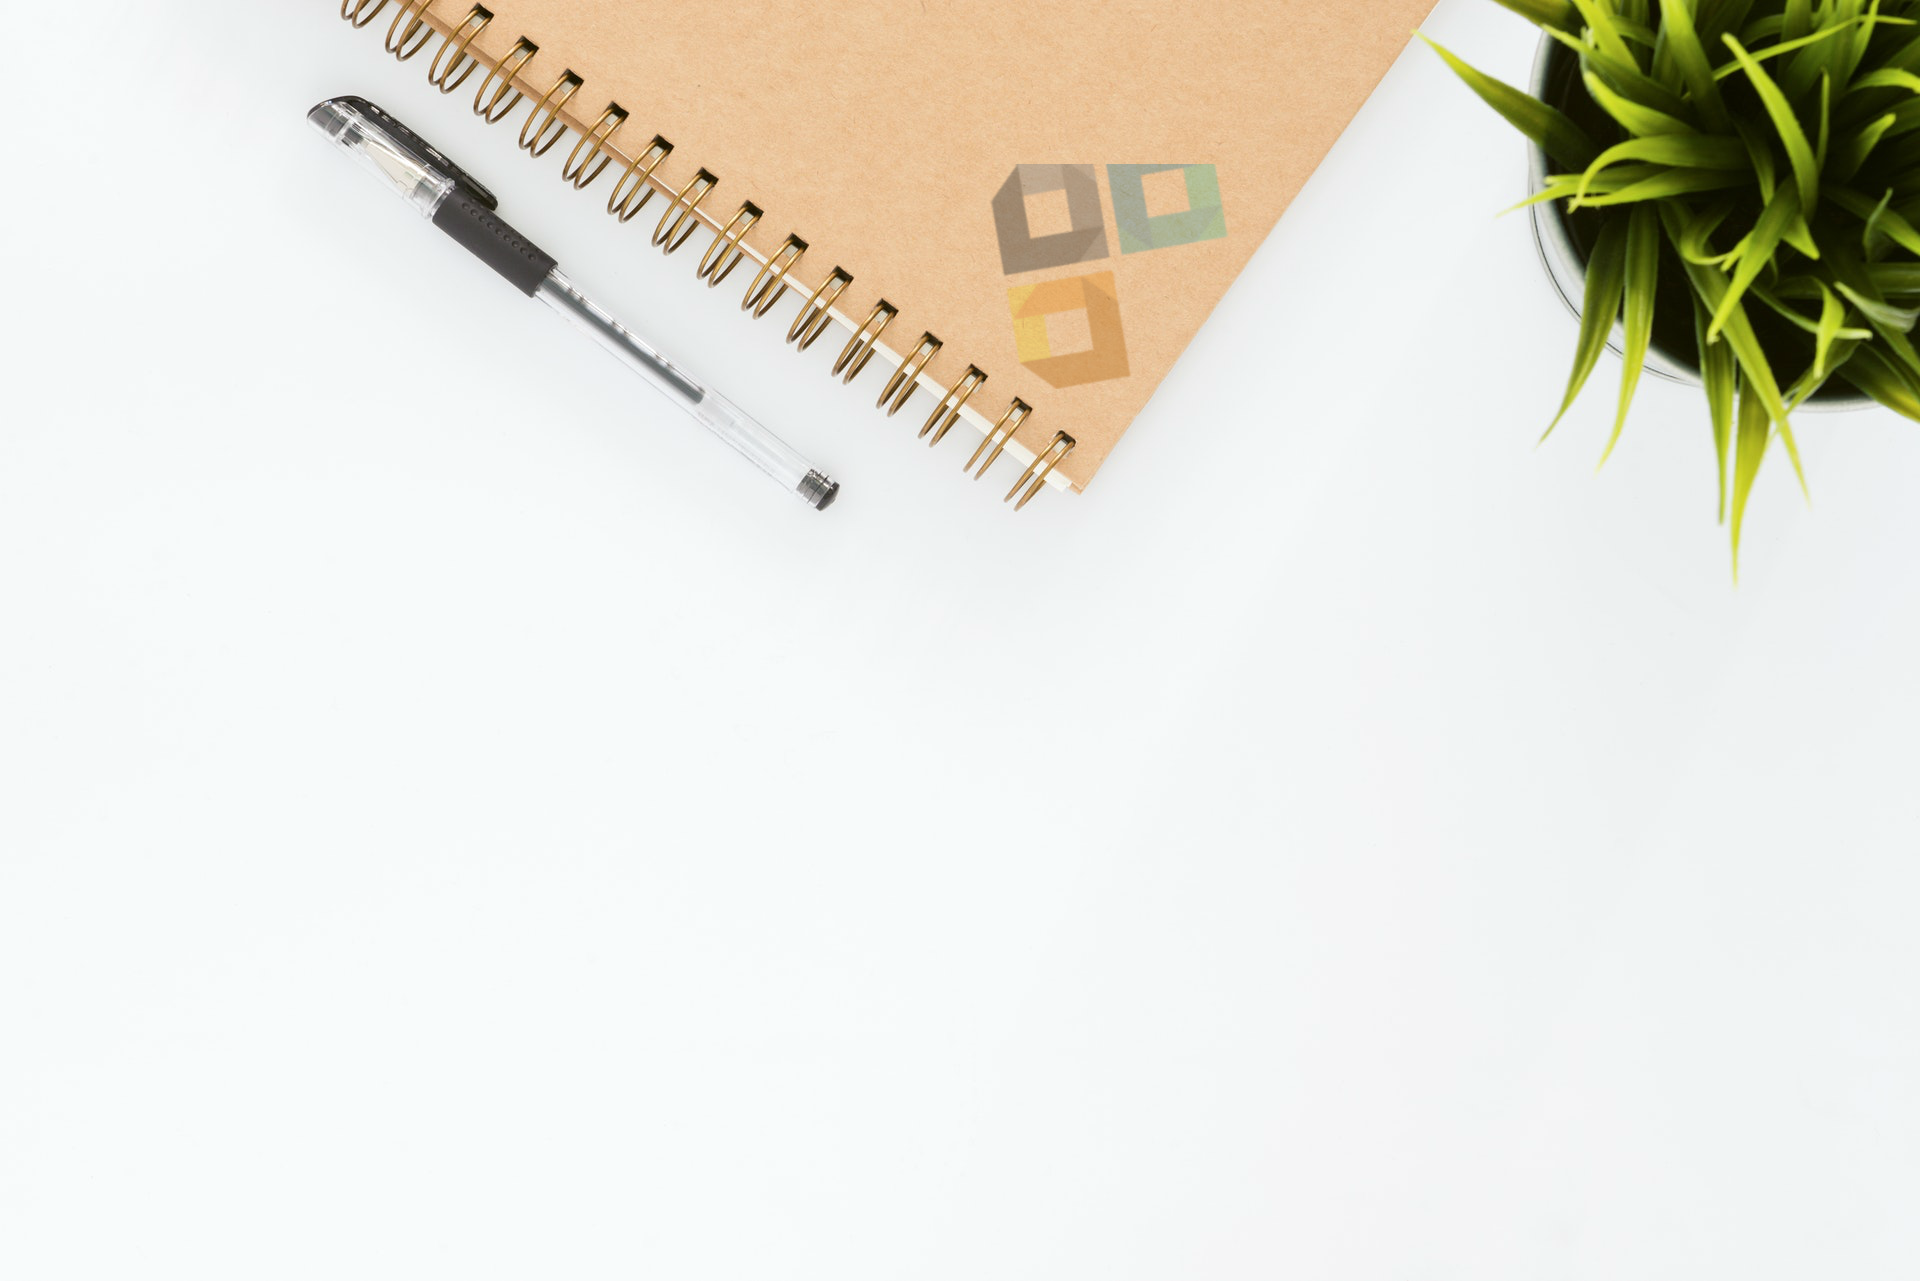
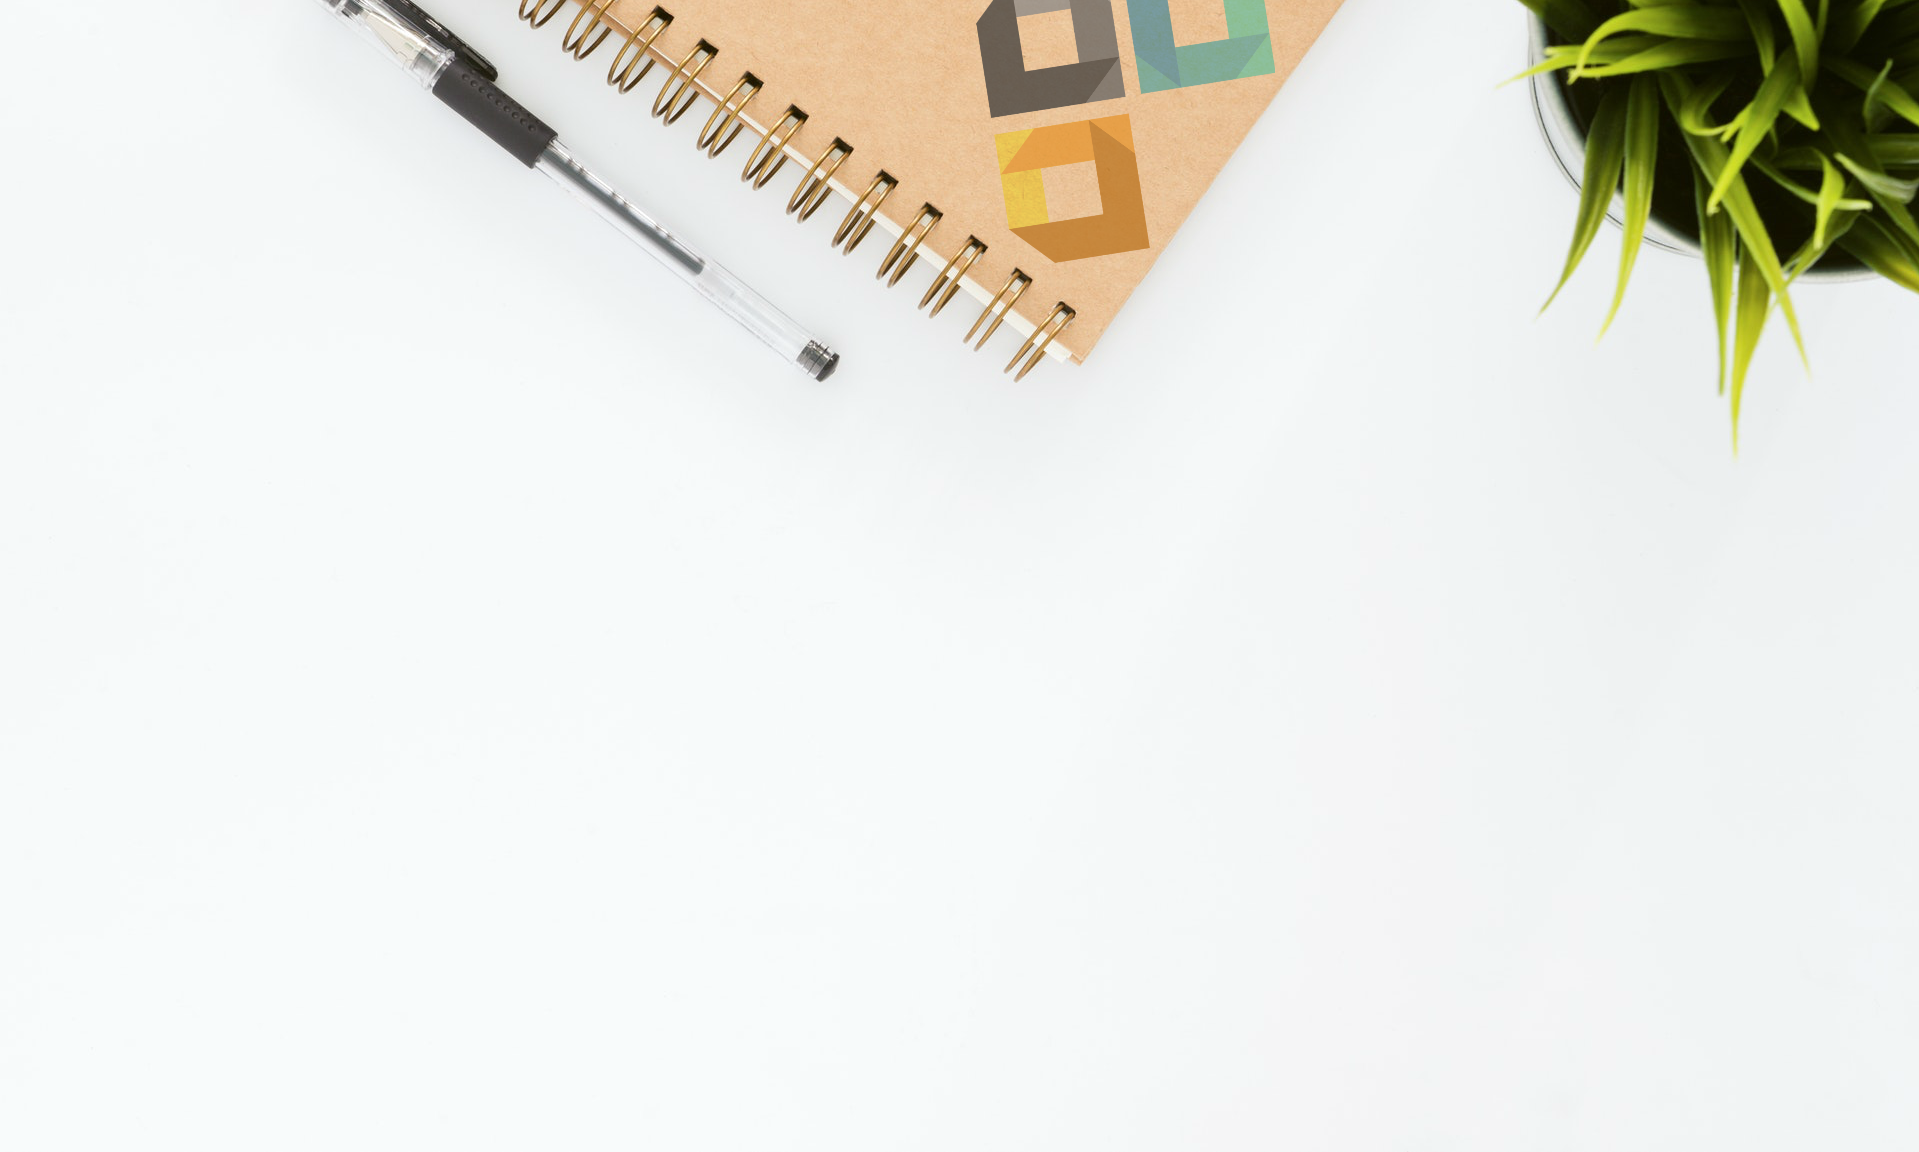
Local changes

Changed region(s): [[0.1537, 0.0, 1.0, 0.4375], [0.3382, 0.2812, 0.3689, 0.3125], [0.3075, 0.25, 0.3382, 0.2812]]

diff --git a/src/main/webapp/css/OpeningPage.css b/src/main/webapp/css/OpeningPage.css
@@ -14,21 +14,27 @@ html {
 }
 
 .navbar {
-    margin-bottom: 0px;
+    margin-bottom: 0;
+    height: 6vh;
     z-index: 1000;
+}
+
+#myNavbar a {
+    font-size: 2.5vh;
+    max-height: 6vh;
 }
 
 .navbar-brand {
     width: auto;
     height: 100%;
-    padding: 5px;
+    padding: 0.5vh;
 }
 
 .navbar-brand>img {
     width: auto;
     height: 4.5vh;
     padding: 0px;
-    margin-left: 12px;
+    margin-left: 1.2vh;
 }
 
 #myNavbar>ul{
@@ -37,14 +43,15 @@ html {
 }
 
 #email, #password {
-    border-radius: 17px;
+    border-radius: 17vh;
+    height: 4vh;
 }
 
 #passwordInputId, #emailInputId {
-    margin-top: 10px;
-    margin-right: 10px;
-    margin-bottom: 10px;
-    height: 10px;
+    margin-top: 1.2vh;
+    margin-right: 1.2vh;
+    margin-bottom: 1.2vh;
+    height: 1vh;
     color: black;
 }
 
@@ -55,7 +62,9 @@ html {
 
 #mainOpeningPageDivId {
     height: 100vh;
-    background: url("../images/opgbPicWL.png") center;
+    background: url("../images/longAssPhoto.png") no-repeat;
+    background-size: 100%, 100%;
+    background-color: #f6f9f9;
 }
 
 #loginButton:hover {
@@ -76,23 +85,15 @@ html {
 #opTextId {
     font-family: 'Raleway', sans-serif;
     color: #233237;
-    font-size: 2.5em;
+    font-size: 4.5vh;
     text-align: left;
-    margin: 0px;
-}
-
-.joinNowBtnRow {
-    /*
-    display: flex;
-    align-items: center;
-    justify-content: center;
-    */
+    margin: 0;
 }
 
 #joinNowBtnId {
-    height: 70px;
-    width: 200px;
-    border-radius: 35px;
+    height: 7vh;
+    width: 21vh;
+    border-radius: 3.5vh;
     background-color: rgba(95,169,211, 0.7);
     border-color: white;
 }
@@ -108,23 +109,23 @@ html {
 
 #btnTextId {
     font-family: 'Raleway', sans-serif;
-    font-size: 2.6em;
+    font-size: 3.5vh;
     color: white;
     font-weight: bold;
 }
 
 .opTextRow, .joinNowBtnRow {
-    padding: 10px;
+    padding: 1vh;
     height: 50%;
 }
 
 /* FOR THE LOADING SCREEN */
 .loader {
-    border: 16px solid #f3f3f3;
+    border: 1.6vh solid #f3f3f3;
     border-radius: 50%;
-    border-top: 16px solid #3498db;
-    width: 120px;
-    height: 120px;
+    border-top: 1.6vh solid #3498db;
+    width: 12.0vh;
+    height: 12.0vh;
     -webkit-animation: spin 2s linear infinite; /* Safari */
     animation: spin 2s linear infinite;
 }
@@ -141,10 +142,10 @@ html {
 }
 
 #coverScreen {
-    margin: 0px;
+    margin: 0;
     display: none;
-    left: 0px;
-    top: 0px;
+    left: 0;
+    top: 0;
     position: absolute;
     height: 100%;
     width: 100%;
@@ -166,10 +167,10 @@ html {
         background-color: rgba(255, 165, 0, 0.0);
         width: 100%;
         height: auto;
-        transform: translate(-50%, -10%);
+        transform: translate(-50%, -50%);
         border: none;
-        padding-right: 10px;
-        padding-left: 10px;
+        padding-right: 3.5vh;
+        padding-left: 3.5vh;
     }
 
     .joinNowBtnRow {

diff --git a/src/main/webapp/css/widgetStyle.css b/src/main/webapp/css/widgetStyle.css
@@ -1,20 +1,23 @@
 /* GENERAL CSS FOR WIDGETS */
-.panel-default>.panel-heading{
+.panel-default>.panel-heading {
     /* background-color: #7D2E26; Den gamle fargen */
     background-color: rgba(150, 19, 12, 0.3);
 
-    font-size: 17px;
+    font-size: 1.0em;
     font-weight: bold;
     color: black;
     letter-spacing: 1px;
-    max-height: 45px;
-    min-height: 45px;
+    max-height: 4.5vh;
+    min-height: 4.5vh;
     overflow: hidden;
-    border: 0px;
+    border: none;
+    outline: none;
+    display: table;
+    width: 100%;
 }
 
 .panel-default>.panel-footer {
-    max-height: 45px;
+    height: 45px;
 }
 
 .cursorPointer:hover {
@@ -32,7 +35,7 @@
 }
 
 .widgetCol {
-    padding: 20px;
+    padding: 2.0vh;
     height: 100%;
 }
 
@@ -48,6 +51,8 @@
 .widget {
     height: 100%;
     width: 100% !important;
+    outline: none;
+    border: none;
 }
 
 .scrollWhenFull {

diff --git a/src/main/webapp/index.html b/src/main/webapp/index.html
@@ -207,11 +207,11 @@
 
     <style>
         .loader {
-            border: 16px solid #f3f3f3;
+            border: 1.6vh solid #f3f3f3;
             border-radius: 50%;
-            border-top: 16px solid #3498db;
-            width: 120px;
-            height: 120px;
+            border-top: 1.6vh solid #3498db;
+            width: 12.0vh;
+            height: 12.0vh;
             -webkit-animation: spin 2s linear infinite; /* Safari */
             animation: spin 2s linear infinite;
         }

diff --git a/src/main/webapp/js/dashboard.js b/src/main/webapp/js/dashboard.js
@@ -72,7 +72,7 @@ function printNewsToDashboard(){
     getNews(function (data) {
         var html = "";
         var loops = data.length;
-        if (loops>6)loops=6;
+        if (loops>50)loops=50;
         for (var i = 0;i<loops;i++) {
             var post = data[i];
             var time = post.time.dayOfMonth+"."+post.time.monthValue+" "+post.time.hour+":"+post.time.minute;

diff --git a/src/main/webapp/css/main.css b/src/main/webapp/css/main.css
@@ -149,3 +149,7 @@ body {
     border-right: 1px solid black;
     height: auto;
 }
+
+#members {
+    width: 100%;
+}
